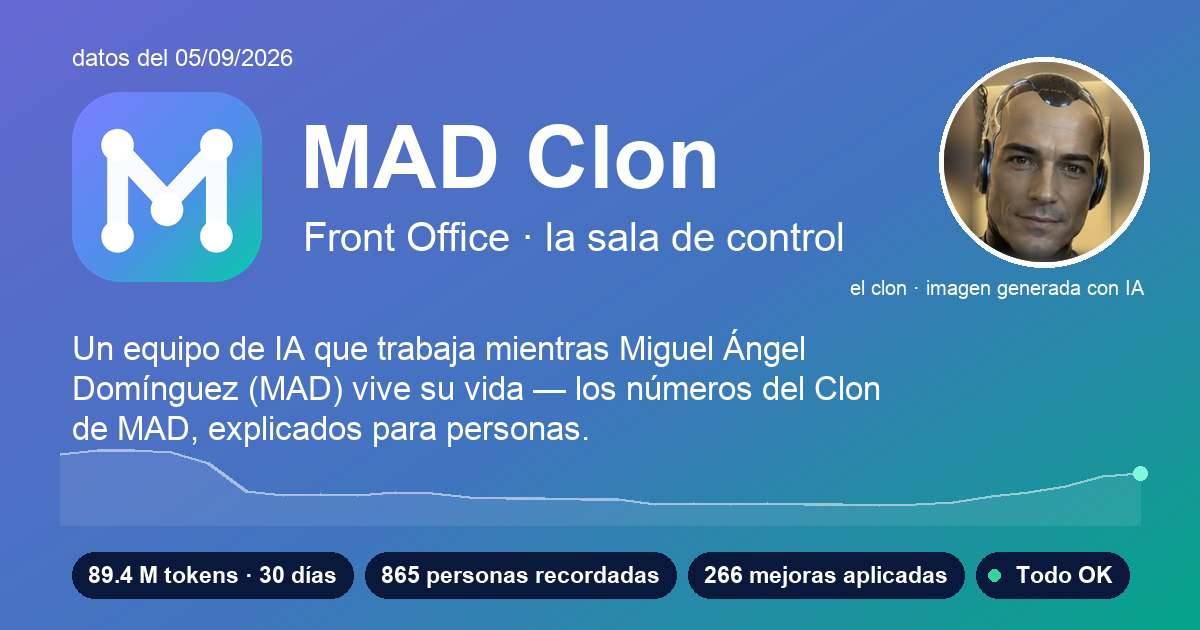
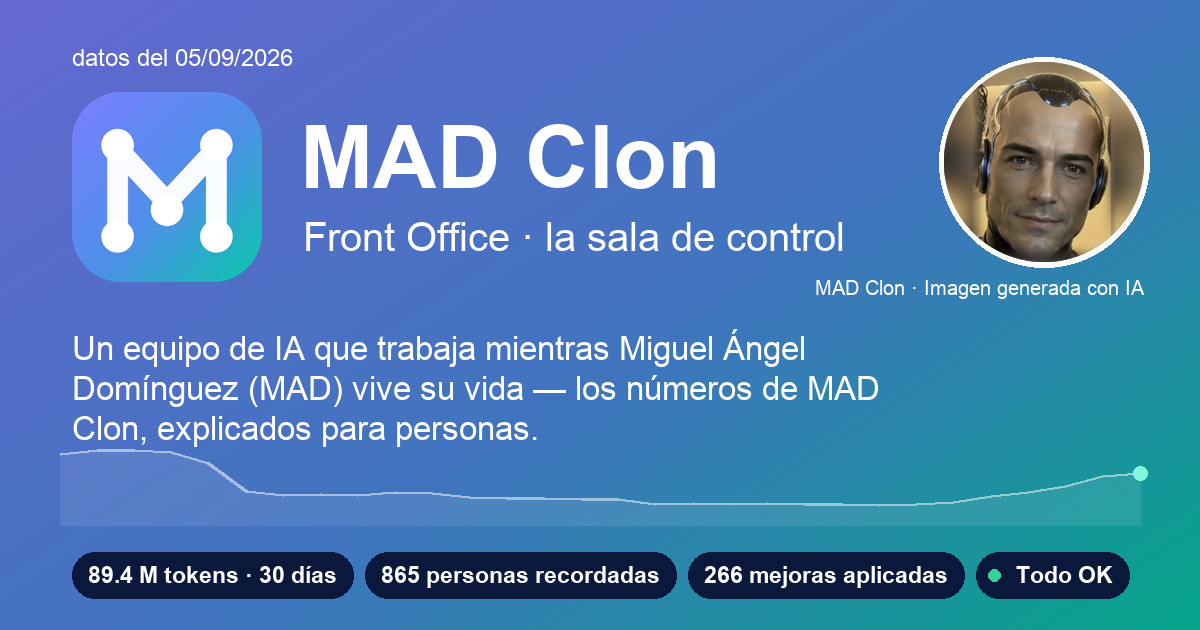
cc: la imagen social deja de llevar el nombre del titular escrito dentro
Era la última pieza que el reparto no cubría: para poner otro clon había que
entrar a editar el script. Ahora el nombre, el titular y el aviso de IA salen
de `identidad/identidad.json`, que reparte
`00_SISTEMA/identidad-visual-clon/repartir.py` desde el vault. Ese fichero
vive en la RAÍZ del repo, no en public/: nadie lo sirve, lo leen las
herramientas que no son TypeScript.

Manifiesto: clave nueva `titular_publico` — cómo se le nombra en público,
que puede ser más corto que el nombre completo. Aquí «Miguel Ángel
Domínguez», no «Miguel Ángel Domínguez Castellano».

Sin manifiesto, la cabecera sale con los textos de respaldo que llevaba este
script antes; un manifiesto a medias tampoco deja huecos, cada clave tiene el
suyo.

Probado con la identidad de OTRO clon (`--identidad`, nuevo, para poder
probarlo): nombre, titular y frase cambian, y sin foto la tarjeta se
recompone sola —ni círculo, ni pie, y el texto recupera el ancho entero—.

Una trampa por el camino: `avatar` del manifiesto es la ruta PÚBLICA
(«identidad/avatar.png»), que en disco cuelga de `web/public/`. Confundirlas
dejaba la tarjeta sin cara sin avisar de nada: el único síntoma era un PNG
60 KB más pequeño.

Verificado: gate entero verde (16 OK · 0 deuda · 0 fallo).

Reversión: git revert <este commit>

Changed region(s): [[0.0617, 0.6635, 0.4933, 0.7238], [0.6783, 0.4222, 0.7708, 0.4825], [0.6475, 0.573, 0.74, 0.6333]]

diff --git a/web/src/lib/identidad-clon.ts b/web/src/lib/identidad-clon.ts
@@ -37,6 +37,9 @@ export type IdentidadClon = {
   titular: string
   titularCorto: string
 
+  /** Cómo se le nombra en público; puede ser más corto que `titular`. */
+  titularPublico: string
+
   /** Ruta pública SIN basePath (o null si este clon aún no tiene cara). */
   avatar: string | null
   retrato: string | null
@@ -52,6 +55,7 @@ export const IDENTIDAD_CLON: IdentidadClon = {
   iniciales: 'MC',
   titular: 'Miguel Ángel Domínguez Castellano',
   titularCorto: 'MAD',
+  titularPublico: 'Miguel Ángel Domínguez',
   avatar: 'identidad/avatar.png',
   retrato: 'identidad/retrato.png',
   generadasPorIa: true,

diff --git a/exporter/og_image.py b/exporter/og_image.py
@@ -8,6 +8,11 @@ la imagen social 1200x630: marca + tagline (como siempre) + pulso de tokens de 3
 Uso:  python exporter/og_image.py
       python exporter/og_image.py --data web/public/data --out web/public/images/og-madclon.png
 
+Quién es el clon (nombre, titular, aviso de IA, foto) sale de `identidad/identidad.json`,
+que reparte `00_SISTEMA/identidad-visual-clon/repartir.py` desde el vault: aquí no hay
+ningún nombre escrito a mano. Sin ese fichero, la cabecera sigue saliendo con los textos
+de respaldo de más abajo.
+
 Solo lee datos ya públicos; no toca el vault. Script nuevo e independiente:
 NO forma parte de export_panel.py ni de la automatización nocturna (zona roja;
 cablearlo al job nocturno requiere OK de MAD).
@@ -105,6 +110,38 @@ def sparkline(base, serie, y_top, y_bot):
     base.alpha_composite(capa)
 
 
+# Respaldo si un repo todavía no tiene la identidad repartida: la cabecera sale
+# igual, con lo que decía este script antes de que existiera el manifiesto.
+IDENTIDAD_RESPALDO = {
+    "nombre": "MAD Clon",
+    "titular_publico": "Miguel Ángel Domínguez",
+    "titular_corto": "MAD",
+    "avatar": None,
+    "textos": {"es": {"aviso_ia": "imagen generada con IA"}},
+}
+
+
+def leer_identidad(raiz, fichero=None):
+    """Quién es el clon, del manifiesto repartido. Nunca revienta la og-image."""
+    fichero = Path(fichero) if fichero else Path(raiz) / "identidad" / "identidad.json"
+    try:
+        datos = json.loads(fichero.read_text(encoding="utf-8"))
+    except Exception:
+        return IDENTIDAD_RESPALDO
+
+    # Se leen solo las claves que esta imagen usa, y cada una con su respaldo: un
+    # manifiesto a medias no debe dejar la tarjeta social con un hueco.
+    fusion = dict(IDENTIDAD_RESPALDO)
+    for clave in ("nombre", "titular_publico", "titular_corto", "avatar"):
+        if datos.get(clave):
+            fusion[clave] = datos[clave]
+    aviso = (datos.get("textos", {}).get("es", {}) or {}).get("aviso_ia")
+    if aviso:
+        fusion["textos"] = {"es": {"aviso_ia": aviso}}
+    fusion["generadas_por_ia"] = bool(datos.get("generadas_por_ia", True))
+    return fusion
+
+
 def envolver(draw, texto, fnt, ancho):
     """Parte el texto en líneas que caben en `ancho`, midiendo de verdad.
 
@@ -147,8 +184,17 @@ def main():
     ap.add_argument("--data", default=str(raiz / "web" / "public" / "data"))
     ap.add_argument("--out", default=str(raiz / "web" / "public" / "images" / "og-madclon.png"))
     ap.add_argument("--logo", default=str(raiz / "web" / "public" / "images" / "logo-512.png"))
-    ap.add_argument("--avatar", default=str(raiz / "web" / "public" / "identidad" / "avatar.png"))
+    ap.add_argument("--avatar", default=None, help="por defecto, la que diga identidad/identidad.json")
+    ap.add_argument("--identidad", default=None, help="otro manifiesto (para probar la tarjeta de otro clon)")
     args = ap.parse_args()
+
+    identidad = leer_identidad(raiz, args.identidad)
+    nombre_clon = identidad["nombre"]
+    titular = f"{identidad['titular_publico']} ({identidad['titular_corto']})"
+    # El aviso viene del manifiesto tal cual («Imagen generada con IA»), así que el
+    # pie se arma con el NOMBRE delante y no con un «el clon ·» que dejaría la
+    # mayúscula del aviso a media frase.
+    pie_cara = f"{nombre_clon} · {identidad['textos']['es']['aviso_ia']}" if identidad["generadas_por_ia"] else nombre_clon
 
     data = Path(args.data)
     overview = json.loads((data / "overview.json").read_text())
@@ -182,19 +228,22 @@ def main():
     # La cara del clon ocupa la columna derecha; el texto se queda en la izquierda
     # y no la pisa. Sin foto (`avatar.png` no existe para este clon) el texto
     # recupera todo el ancho y la cabecera queda como estaba.
-    cara = Path(args.avatar)
+    # `avatar` del manifiesto es la ruta PÚBLICA («identidad/avatar.png»), o sea
+    # que en disco cuelga de web/public/. Confundirlas dejaba la tarjeta sin cara
+    # y sin avisar: el único síntoma era un PNG 60 KB más pequeño.
+    cara = Path(args.avatar) if args.avatar else (raiz / "web" / "public" / (identidad["avatar"] or "identidad/avatar.png"))
     lado_cara = 200
     x_cara = W - 56 - lado_cara
     ancho_texto = (x_cara - 72 - 32) if cara.is_file() else (W - 72 - 56)
 
-    draw.text((300, 108), "MAD Clon", font=f_nombre, fill=(255, 255, 255, 255))
+    draw.text((300, 108), nombre_clon, font=f_nombre, fill=(255, 255, 255, 255))
     draw.text((303, 214), "Front Office · la sala de control", font=f_sub, fill=(255, 255, 255, 225))
     draw.text(
         (72, 330),
         envolver(
             draw,
-            "Un equipo de IA que trabaja mientras Miguel Ángel Domínguez (MAD) vive su vida — "
-            "los números del Clon de MAD, explicados para personas.",
+            f"Un equipo de IA que trabaja mientras {titular} vive su vida — "
+            f"los números de {nombre_clon}, explicados para personas.",
             f_tag,
             ancho_texto,
         ),
@@ -220,7 +269,7 @@ def main():
         base.alpha_composite(foto, (x_cara, y_cara))
         draw.text(
             (W - 56, y_cara + lado_cara + 14),
-            "el clon · imagen generada con IA",
+            pie_cara,
             font=font(REG, 20),
             fill=(255, 255, 255, 195),
             anchor="ra",
